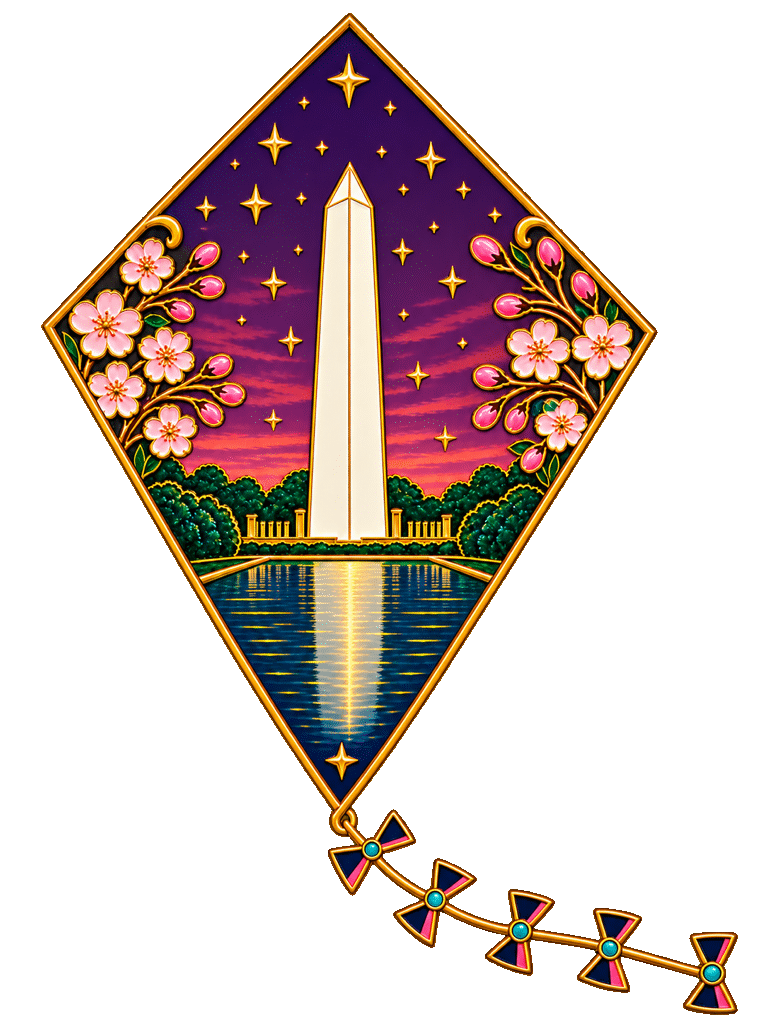
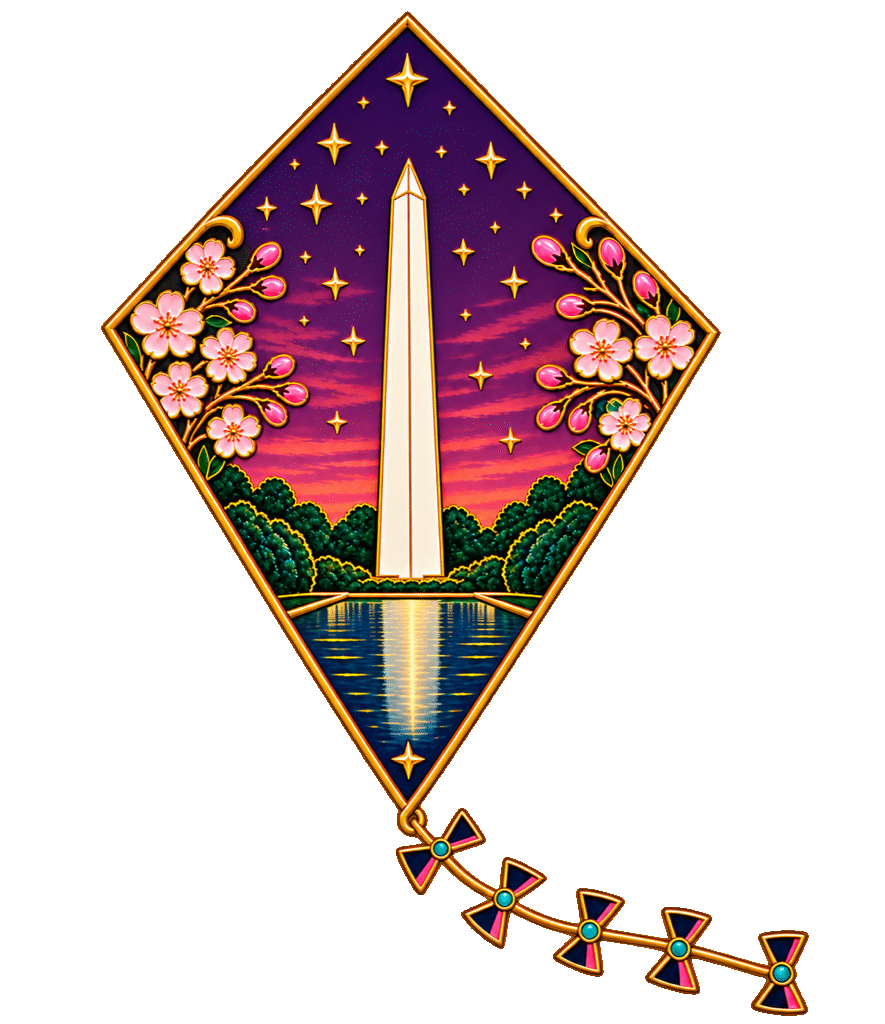
changed UI

Changed region(s): [[0.0312, 0.0, 0.9662, 1.0]]

diff --git a/51-steps-to-freedom/stops/kites/index.html b/51-steps-to-freedom/stops/kites/index.html
@@ -1,7 +1,7 @@
 <!DOCTYPE html>
 <html>
 <head>
-    <title>Kite Launcher</title>
+    <title>Fly A Kite</title>
     <meta name="viewport" content="width=device-width, initial-scale=1.0">
     <link rel="stylesheet" href="https://cdnjs.cloudflare.com/ajax/libs/font-awesome/5.15.3/css/all.min.css" integrity="sha512-iBBXm8fW90+nuLcSKlbmrPcLa0OT92xO1BIsZ+ywDWZCvqsWgccV3gFoRBv0z+8dLJgyAHIhR35VZc2oM/gI1w==" crossorigin="anonymous" />
     <style>
@@ -30,12 +30,14 @@
         /* Center the title */
         .title {
             text-align: center;
-            font-size: 4rem;
+            font-size: 7rem;
+            line-height: 1.1;
             font-family: 'Belinda-W00-Regular', sans-serif;
         }
         .subtitle {
             text-align: center;
-            font-size: 2.5rem;
+            font-size: 4.5rem;
+            line-height: 1.1;
             font-weight: 200;
             font-family: 'Georgia', serif;
         }
@@ -106,7 +108,9 @@
         .front h2 {
             z-index: 2;
             position: absolute;
-            font-size: 3rem;
+            font-size: 5.5rem;
+            line-height: 1.1;
+            margin: 0;
             bottom: 0;
             width: 90%;
             padding: .5rem;
@@ -268,7 +272,7 @@
 </head>
 <body>
     <div class="title">
-        Kite Launcher
+        Fly A Kite
     </div>
     <div class="subtitle">
         Swipe right and Tap a kite to fly it
